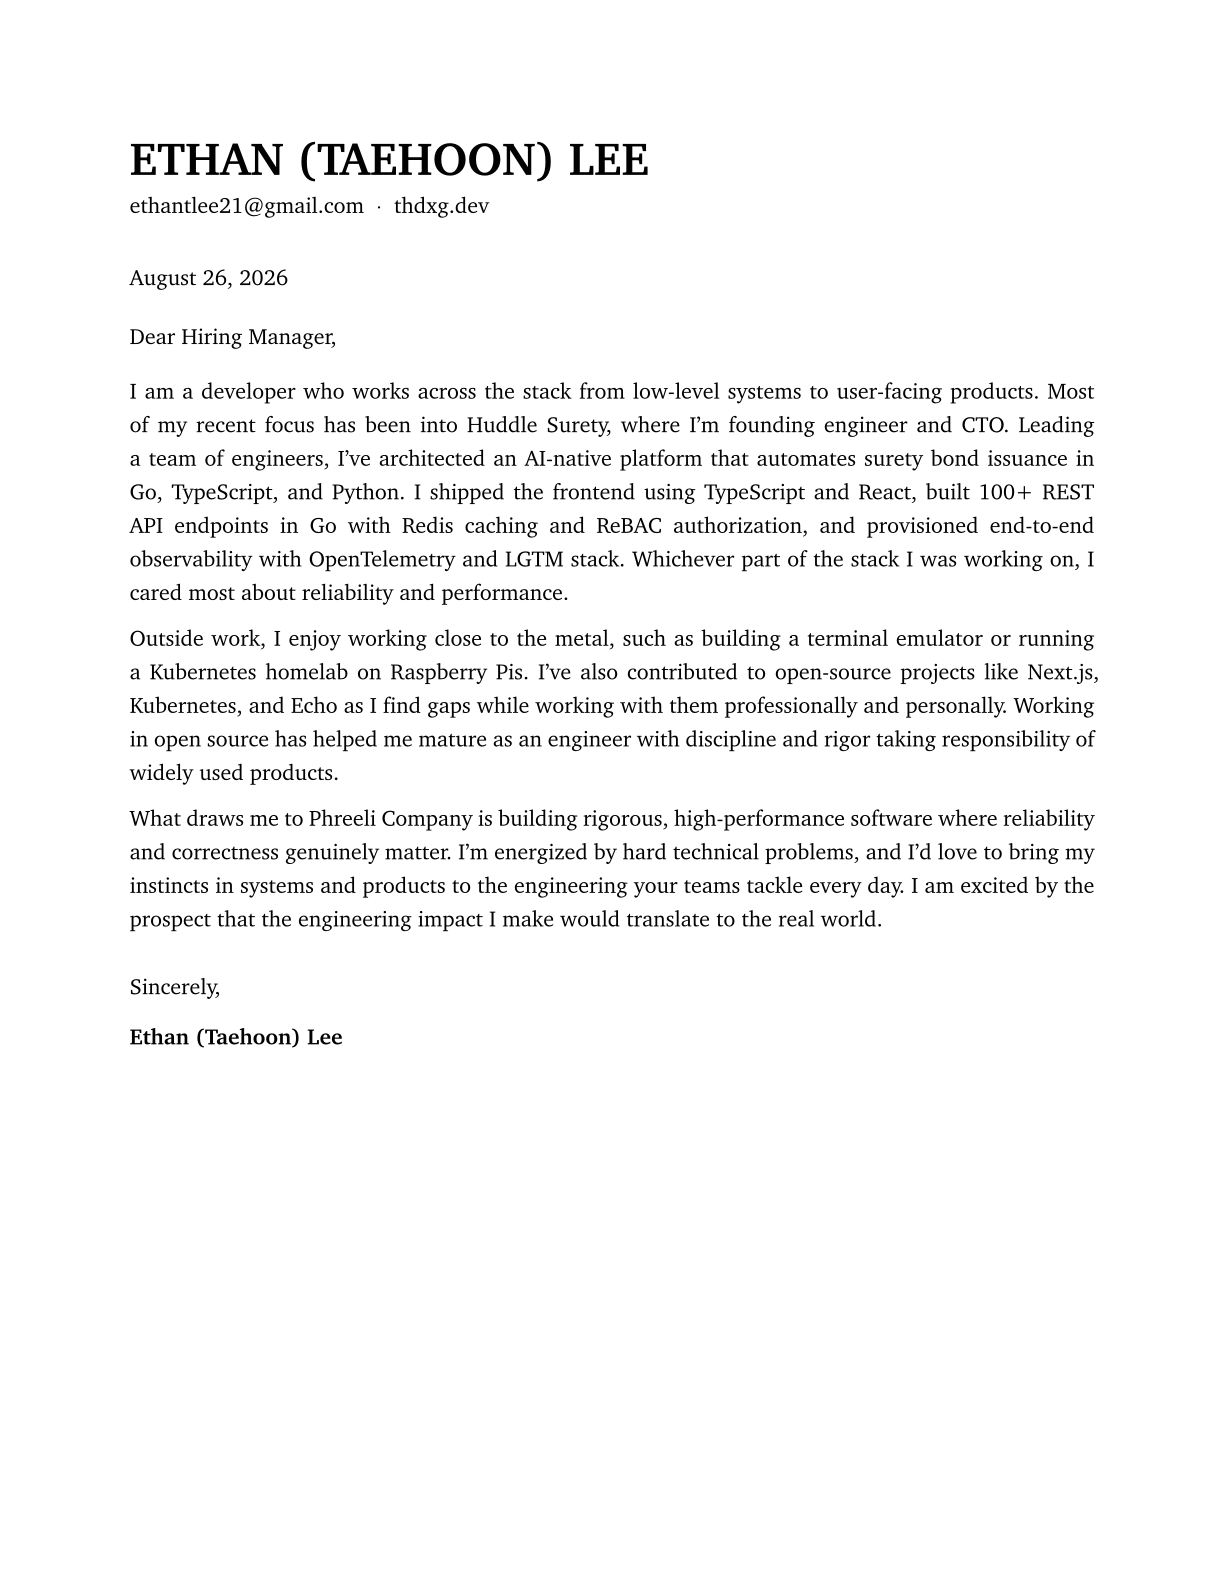
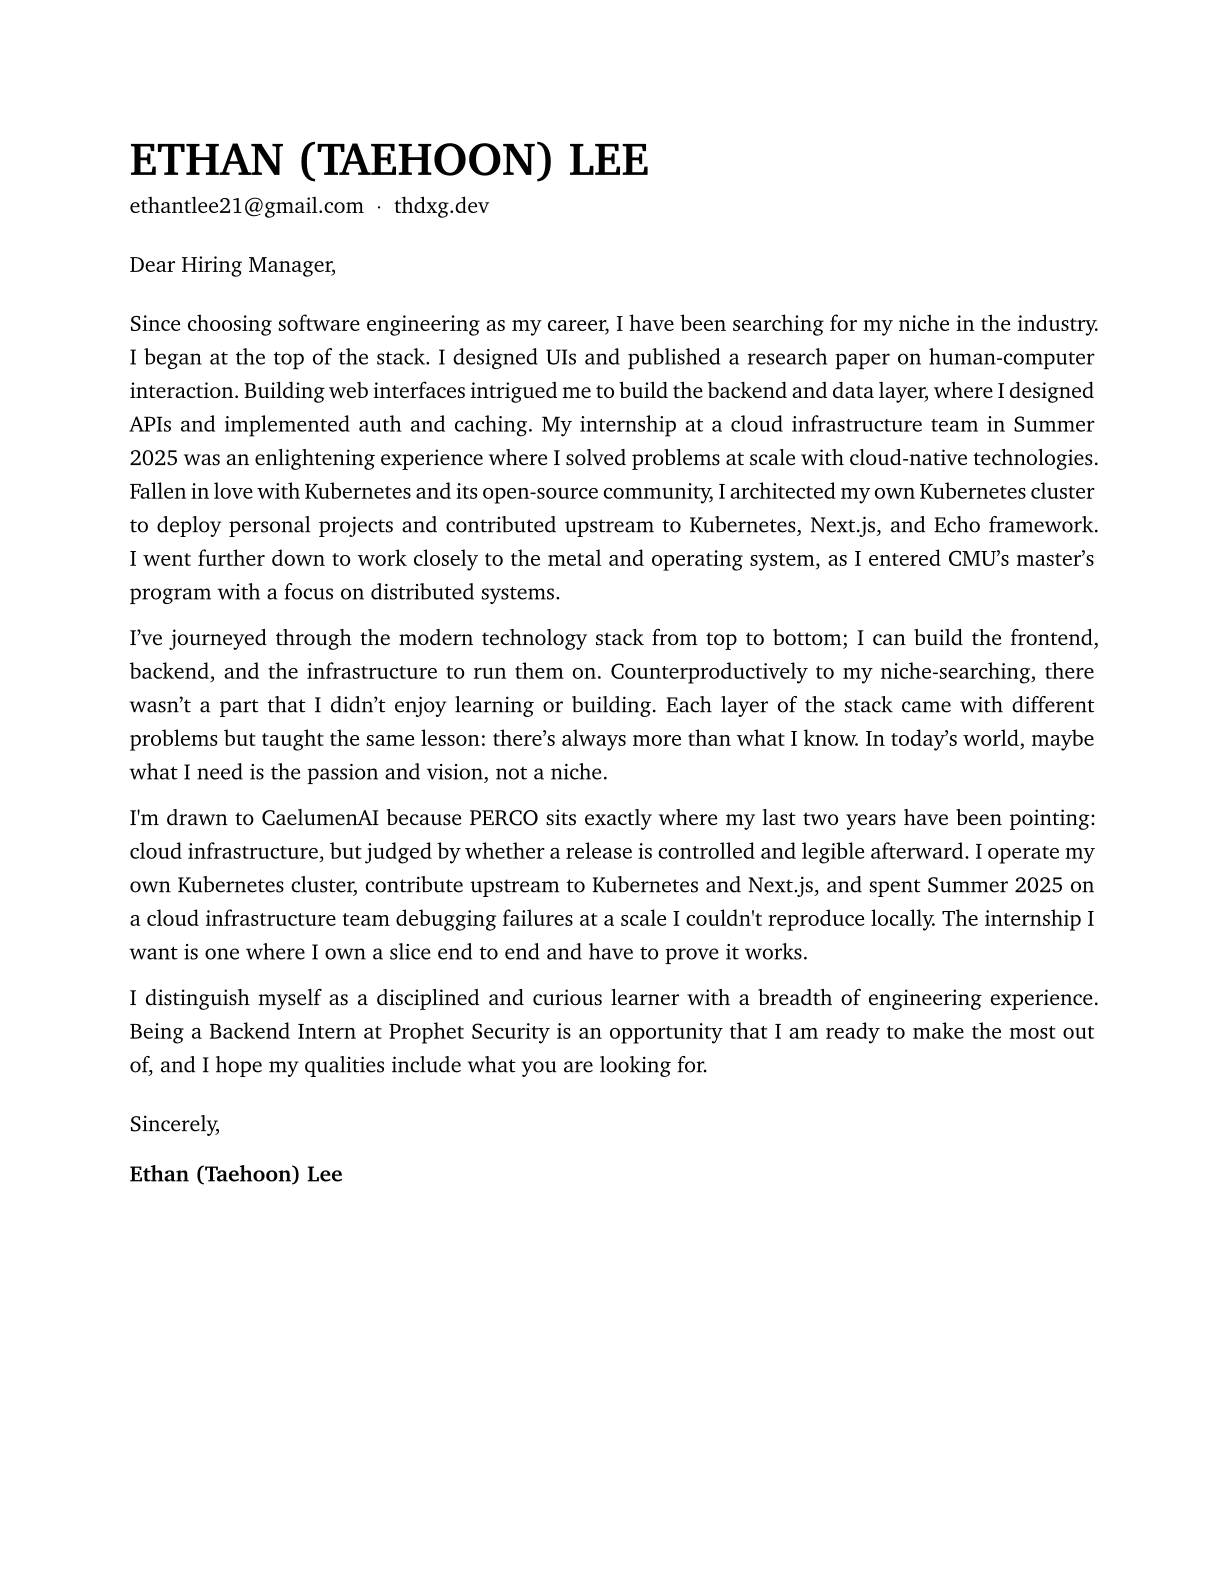
extract cover letter variables to cover-letter.yaml

Changed region(s): [[0.0931, 0.1547, 0.9003, 0.6806], [0.1242, 0.7115, 0.1863, 0.7424]]

diff --git a/README.md b/README.md
@@ -9,7 +9,9 @@ Declarative resume and cover letter built with Typst.
 ## Usage
 
 - Edit resume content in [resume.yaml](./resume.yaml).
-- Edit the cover letter (company, greeting, prose) at the top of
+- Edit per-application cover letter variables (company, position, motivation)
+  in [cover-letter.yaml](./cover-letter.yaml).
+- Edit the cover letter greeting and prose in
   [docs/cover-letter.typ](./docs/cover-letter.typ).
 - Run `mise run compile:all` to generate PDF + PNG for both documents.
 
